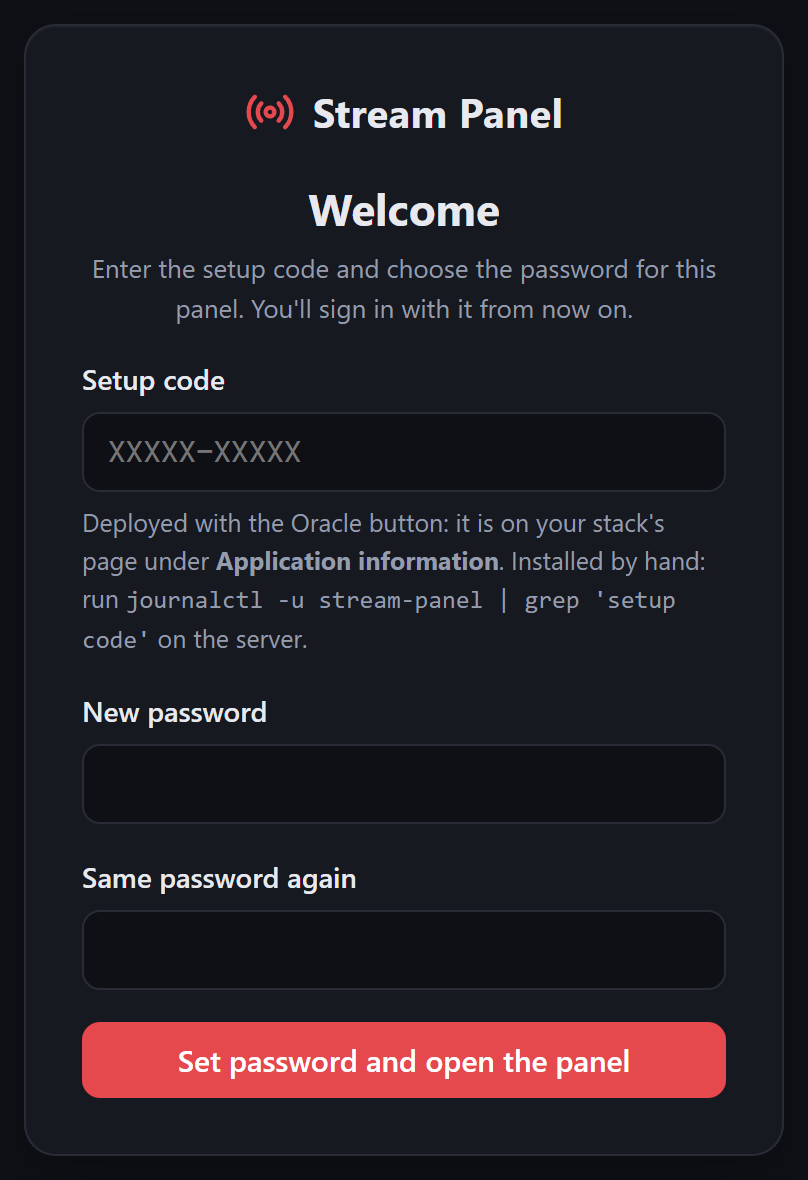
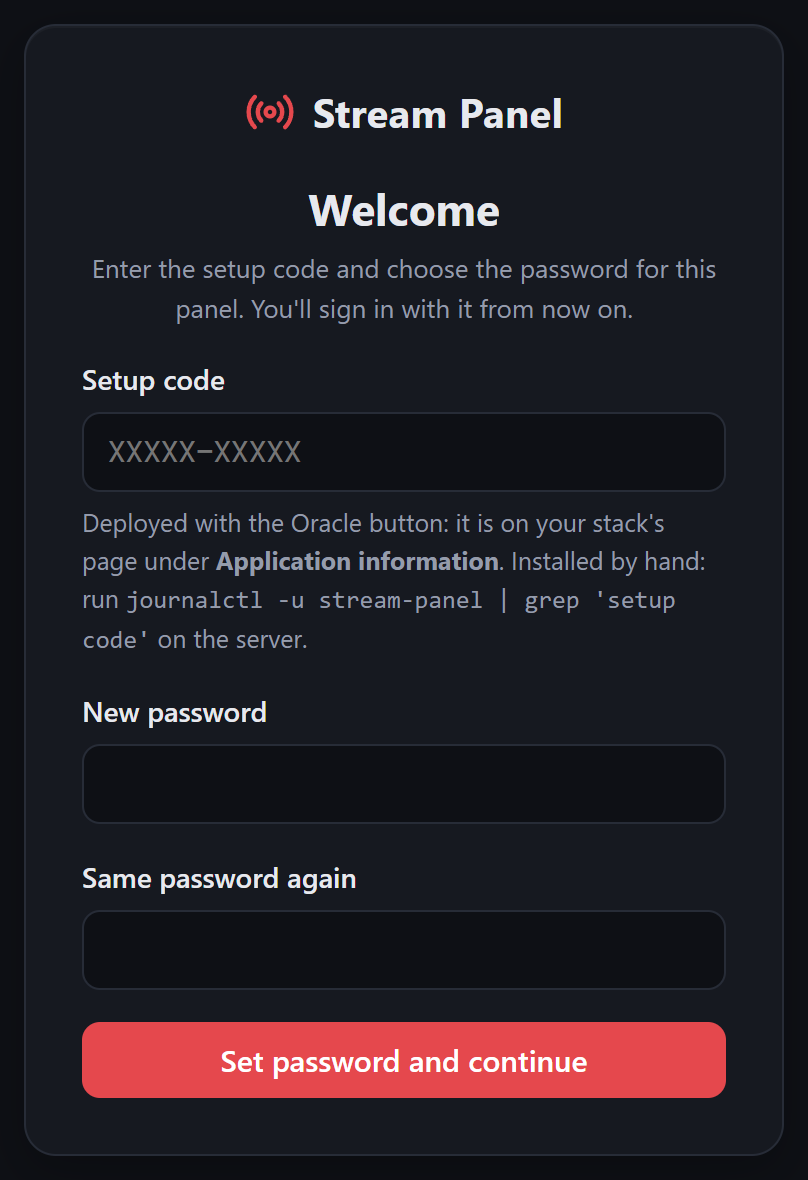
First visit asks for Discord alerts; installer offers the fixed link
- Right after choosing the password, the panel asks for a Discord webhook
  in plain words (what you'll hear about, how to make one, a test message),
  with "Skip for now"; Getting started reminds those who skip.
- setup.sh (by hand) now asks whether to turn on the link that never
  changes, http://<server-ip>:8080 (Enter = yes), so people without Discord
  or SSH can always find the panel.
- README and setup guide: the new step (with a screenshot), the Oracle
  ingress rule for 8080 on hand installs, alerts marked strongly
  recommended.

Changed region(s): [[0.2166, 0.8847, 0.8045, 0.9153]]

diff --git a/public/app.js b/public/app.js
@@ -154,6 +154,7 @@ function showLogin(passwordSet = true, setupCodeRequired = false) {
   $('#login').hidden = false;
   $('#login-form').hidden = setup;
   $('#setup-form').hidden = !setup;
+  $('#alerts-step').hidden = true;
   $('#login-hint').textContent = passwordSet || setup ? '' : 'No password yet. On the server run: npm run set-password';
   (setup ? $('#setup-code') : $('#login-password')).focus();
 }
@@ -196,8 +197,7 @@ $('#setup-form').addEventListener('submit', async (e) => {
   try {
     await api('POST', '/api/auth/setup', { code: $('#setup-code').value, password, timeZone });
     $('#setup-form').reset();
-    await showApp();
-    toast('Password set. You are signed in.');
+    showAlertsStep();
   } catch (e2) {
     err.textContent = e2.message;
     if (e2.status === 409) {
@@ -206,6 +206,55 @@ $('#setup-form').addEventListener('submit', async (e) => {
     }
   }
 });
+
+// Straight after the first password: ask for a Discord webhook (skippable),
+// so a non-technical owner hears when the stream drops or the link changes.
+async function showAlertsStep() {
+  const cfg = await api('GET', '/api/config').catch(() => null);
+  if (cfg?.notifications?.discordWebhookUrl?.set) return showApp(); // already set up (e.g. by the installer)
+  $('#setup-form').hidden = true;
+  $('#alerts-step').hidden = false;
+  $('#alerts-ok').hidden = true;
+  $('#alerts-continue').textContent = 'Skip for now';
+  $('#alerts-webhook').focus();
+}
+
+async function leaveAlertsStep() {
+  $('#alerts-step').hidden = true;
+  $('#alerts-step').reset();
+  await showApp();
+}
+
+$('#alerts-step').addEventListener('submit', async (e) => {
+  e.preventDefault();
+  const err = $('#alerts-error');
+  const done = $('#alerts-ok');
+  err.textContent = '';
+  done.hidden = true;
+  const url = $('#alerts-webhook').value.trim();
+  if (!url) {
+    err.textContent = 'Paste the webhook URL first, or choose Skip for now.';
+    return;
+  }
+  $('#alerts-save').disabled = true;
+  try {
+    await api('PUT', '/api/config', { notifications: { discordWebhookUrl: url } });
+    const test = await api('POST', '/api/config/test-notification').catch((e2) => ({ ok: false, error: e2.message }));
+    if (test?.ok === false) {
+      err.textContent = `Saved, but the test message didn't arrive: ${test.error ?? 'unknown error'}. Check the URL, or carry on and fix it later in Settings.`;
+    } else {
+      done.textContent = 'Saved. A test message is in your Discord channel.';
+      done.hidden = false;
+    }
+    $('#alerts-continue').textContent = 'Open the panel';
+  } catch (e2) {
+    err.textContent = e2.message;
+  } finally {
+    $('#alerts-save').disabled = false;
+  }
+});
+
+$('#alerts-continue').addEventListener('click', leaveAlertsStep);
 
 $('#logout').addEventListener('click', async () => {
   closeTerminal();

diff --git a/public/index.html b/public/index.html
@@ -72,7 +72,32 @@
       <label class="field"><span>New password</span><input id="setup-password" type="password" autocomplete="new-password" minlength="8" required></label>
       <label class="field"><span>Same password again</span><input id="setup-password2" type="password" autocomplete="new-password" minlength="8" required></label>
       <p id="setup-error" class="form-error" role="alert"></p>
-      <button class="btn btn-primary btn-block" type="submit">Set password and open the panel</button>
+      <button class="btn btn-primary btn-block" type="submit">Set password and continue</button>
+    </form>
+    <!-- Right after the first password: alerts, so the owner hears when
+         something happens (skippable; Getting started reminds them later). -->
+    <form id="alerts-step" class="login-card" hidden>
+      <div class="brand brand-lg"><svg class="i"><use href="#i-bell"/></svg><span>Get alerts</span></div>
+      <div class="setup-intro">
+        <h1>Know when something happens</h1>
+        <p class="muted small">The stream runs on the server, so you won't see problems unless something tells you. With Discord the panel messages you when:</p>
+      </div>
+      <ul class="checklist small">
+        <li><svg class="i"><use href="#i-check"/></svg><span>the stream starts, drops or comes back</span></li>
+        <li><svg class="i"><use href="#i-check"/></svg><span>the panel gets a new link (the message has it)</span></li>
+        <li><svg class="i"><use href="#i-check"/></svg><span>YouTube rates the stream Poor, or the disk fills up</span></li>
+        <li><svg class="i"><use href="#i-check"/></svg><span>someone keeps guessing your password</span></li>
+      </ul>
+      <label class="field">
+        <span>Discord webhook URL</span>
+        <input id="alerts-webhook" type="password" autocomplete="off" placeholder="https://discord.com/api/webhooks/…">
+        <small class="muted">In Discord: pick a channel → its settings (gear) → <b>Integrations</b> → <b>Webhooks</b> → <b>New Webhook</b> → <b>Copy Webhook URL</b>, then paste it here.</small>
+      </label>
+      <div class="btn-row"><a class="btn btn-small" href="https://support.discord.com/hc/en-us/articles/228383668-Intro-to-Webhooks" target="_blank" rel="noopener">How to make a webhook<svg class="i i-sm"><use href="#i-external"/></svg></a></div>
+      <p id="alerts-error" class="form-error" role="alert"></p>
+      <p id="alerts-ok" class="ok small" hidden></p>
+      <button class="btn btn-primary btn-block" type="submit" id="alerts-save">Save and send a test message</button>
+      <button class="btn btn-ghost btn-block" type="button" id="alerts-continue">Skip for now</button>
     </form>
   </main>
 

diff --git a/README.md b/README.md
@@ -47,7 +47,7 @@ playlist carries on when you stop.
 |-|-|-|
 | Oracle Cloud account (Always Free ARM server) | Free (a card is asked for at sign-up) | Running it 24/7 |
 | A YouTube channel with live streaming enabled | Free | Streaming |
-| A Discord server where you can add a webhook | Free | Alerts (optional, recommended) |
+| A Discord server where you can add a webhook | Free | Alerts: stream dropped or back, the panel's new link (strongly recommended) |
 | A Healthchecks.io account | Free | Alerts if the whole server dies (optional) |
 | A Google Cloud project | Free | Connect YouTube (optional) |
 | OBS Studio 27 or newer | Free | Going live from OBS (optional) |
@@ -74,8 +74,15 @@ the **By hand** steps below work on any Ubuntu server.
    install itself. The stack's **Application information** tab has **Open the
    panel** and your **Setup code**.
 4. Open the panel, enter the setup code, choose your password.
+5. Next it asks for a **Discord webhook**, so you get a message when the
+   stream drops, comes back, or the panel gets a new link. Takes a minute and
+   is strongly recommended; **Skip for now** is fine too (the Getting started
+   list reminds you).
 
-<img src="docs/images/setup.png" width="360" alt="First visit: setup code and password">
+<p>
+  <img src="docs/images/setup.png" width="320" alt="First visit: setup code and password">
+  <img src="docs/images/alerts-step.png" width="320" alt="Then: Discord alerts">
+</p>
 
 That link (`http://<server-ip>:8080`) never changes: bookmark it on your
 phone. "Out of host capacity" during the job is normal for free servers:
@@ -95,12 +102,16 @@ The full walk-through, with every click, is in
    bash deploy/setup.sh
    ```
    It installs Node.js, FFmpeg and cloudflared, asks for a panel password,
-   your stream key, Discord and Healthchecks URLs (Enter skips any), and your
-   time zone, then starts the service. With `--unattended` it asks nothing
-   and prints a setup code instead (you choose the password in the browser).
-3. The panel's link arrives in Discord (or run
-   `journalctl -u stream-panel | grep 'panel URL'`). Open it, sign in, add
-   media, press **Start**.
+   your stream key, Discord and Healthchecks URLs (Enter skips any), your
+   time zone, and whether to turn on the **link that never changes** (press
+   Enter for yes), then starts the service. With `--unattended` it asks
+   nothing and prints a setup code instead (you choose the password in the
+   browser).
+3. In Oracle: VCN → **Security Lists** → **Add Ingress Rule**: source
+   `0.0.0.0/0`, **TCP**, port **8080** (for that link).
+4. Open `http://<server-ip>:8080` (bookmark it: it always leads to the
+   panel), sign in, add media, press **Start**. Discord also gets each new
+   panel link if you gave a webhook.
 
 Want to try it first without a server? Run the same installer in Ubuntu on
 Windows: [deploy/WSL-REHEARSAL.md](deploy/WSL-REHEARSAL.md).
@@ -192,6 +203,10 @@ server. **Disconnect** (or myaccount.google.com/permissions) removes access.
 ### 4. Alerts
 
 <img src="docs/images/alerts.png" width="520" alt="Alerts card">
+
+Strongly recommended: the stream runs on the server, so without alerts you
+won't know it dropped until someone tells you. The panel asks for a Discord
+webhook right after you choose the password; if you skipped it, add it here.
 
 - **Discord**: your server → channel settings → **Integrations → Webhooks →
   New Webhook → Copy Webhook URL** → paste → **Send test**.
@@ -312,7 +327,7 @@ someone who learns the panel password still can't open it.
 
 | Task | How |
 |-|-|
-| Find the panel link | `http://<server-ip>:8080` (Deploy button), Discord, or `journalctl -u stream-panel \| grep 'panel URL'` |
+| Find the panel link | `http://<server-ip>:8080` (always; bookmark it), the newest Discord message, or `journalctl -u stream-panel \| grep 'panel URL'` |
 | See what's happening | Panel → **Logs**, or `journalctl -u stream-panel -f` |
 | Restart everything | `sudo systemctl restart stream-panel` (resumes where it was) |
 | Update to a new version | `bash deploy/update.sh`, or the **Update panel** button in the Terminal tab |

diff --git a/deploy/SETUP-GUIDE.md b/deploy/SETUP-GUIDE.md
@@ -123,9 +123,12 @@ The script installs everything, then asks for:
 - a **panel password** — you'll type it in the browser;
 - your **YouTube stream key** — see step 5 (you can paste it later in the
   panel's settings instead);
-- optional **Discord webhook** and **Healthchecks** URLs — see step 6;
+- a **Discord webhook** (strongly recommended) and a **Healthchecks** URL —
+  see step 6;
 - your **time zone**, e.g. `Europe/London` (for the weekly restart at 4 am;
-  the panel can change it later).
+  the panel can change it later);
+- whether to turn on the **link that never changes** — press Enter for yes
+  (see below).
 
 Press Enter to skip any question: everything can be set in the panel later.
 
@@ -133,13 +136,14 @@ Nothing needs to be opened in Oracle's firewall for the panel: it is reached
 through a Cloudflare tunnel that connects *outwards*. (Going live from OBS
 needs one port opened, see step 8.)
 
-**A link that never changes** (optional): the Cloudflare link is new after
-every restart (Discord always gets it). For one fixed address instead, run
-`FINDER_PORT=8080 bash deploy/setup.sh` (Enter skips every question) and add
-an Ingress Rule in Oracle (VCN → Security Lists → Add Ingress Rule: source
-`0.0.0.0/0`, **TCP**, port **8080**). Then `http://<server-ip>:8080` always
-forwards to the panel. It shows nothing else; the panel still needs its
-password.
+**The link that never changes:** the Cloudflare link is new after every
+restart (Discord always gets it), so the installer offers a fixed address,
+`http://<server-ip>:8080`, that always forwards to the current one. It shows
+nothing else; the panel still needs its password. If you said yes, add an
+Ingress Rule in Oracle so it can be reached: VCN → **Security Lists** →
+**Add Ingress Rule**: source `0.0.0.0/0`, **TCP**, port **8080**. Said no?
+Turn it on later with `FINDER_PORT=8080 bash deploy/setup.sh` (Enter skips
+the other questions).
 
 **Choose the password in the browser instead:** `bash deploy/setup.sh
 --unattended` asks nothing and prints a **setup code**; open the panel, enter
@@ -212,7 +216,12 @@ YouTube start it (nobody is watching yet at that point). If Auto-stop is on,
 If Google asks you to "Verify it's you" while connecting, it sends a code to
 a phone on your account; keep that phone at hand.
 
-## 6. Alerts (optional, recommended)
+## 6. Alerts (strongly recommended)
+
+The stream runs on the server, so without alerts you won't know it dropped
+until someone tells you. Right after you choose the panel password, the panel
+asks for a Discord webhook (you can skip it; the **Getting started** list
+reminds you).
 
 **Discord** — you get a message when the stream starts, drops, comes back,
 freezes, skips a broken file, or the panel's link changes:
@@ -229,9 +238,10 @@ being completely dead (power, network, Oracle stopped it).
 
 - **Deploy button:** open `http://<server-ip>:8080` (the stack's **Open the
   panel**). It always leads to the panel.
-- **By hand:** the panel's link arrives in Discord (or run
-  `journalctl -u stream-panel | grep 'panel URL'` on the server). It changes
-  when the server restarts — Discord always gets the new one.
+- **By hand:** open `http://<server-ip>:8080` if you turned on the link
+  that never changes (step 4). Otherwise the panel's link arrives in Discord
+  (or run `journalctl -u stream-panel | grep 'panel URL'` on the server); it
+  changes when the server restarts, and Discord always gets the new one.
 - Sign in. The **Getting started** list on the Overview shows what is left
   (stream key, media, alerts) with a button to each page you need. Then press
   **Start**.
